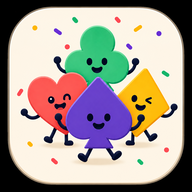
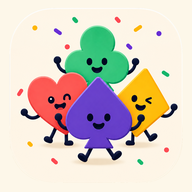
Add files via upload

Changed region(s): [[0.0, 0.0, 1.0, 1.0]]

diff --git a/README.md b/README.md
@@ -1,9 +1,13 @@
-# BooScore! v3.1.2 — aggiornamento icona app
+# BooScore! v3.1.2 — nuova icona
 
-Questa versione aggiorna l'icona della PWA con la nuova grafica approvata delle 4 mascotte.
+Questo aggiornamento sostituisce esclusivamente l'icona PWA con la nuova versione approvata:
+- sfondo beige chiaro pieno;
+- quattro mascotte dei semi;
+- coriandoli colorati;
+- nessun bordo/sfondo nero nell'immagine sorgente.
 
-## File da caricare su GitHub
-Carica/sostituisci questi file nella root del repository:
+## File da sostituire nella root di GitHub
+Carica questi file tutti allo stesso livello di `index.html`:
 
 - `apple-touch-icon.png`
 - `icon-192.png`
@@ -12,13 +16,12 @@ Carica/sostituisci questi file nella root del repository:
 - `icon-source-1024.png`
 - `sw.js`
 
-## Importante per vedere la nuova icona su iPhone
-Se l'app è già stata aggiunta alla Home, iOS può continuare a mostrare l'icona precedente dalla cache.
+Non sono necessarie cartelle e non serve modificare gli altri file della PWA.
 
-Procedura consigliata:
-1. aggiorna i file su GitHub;
-2. apri il sito aggiornato in Safari;
-3. se l'icona in Home non cambia subito, rimuovi BooScore! dalla Home;
-4. aggiungi di nuovo l'app alla Home.
+## iPhone: visualizzare la nuova icona
+L'icona Home può rimanere memorizzata da iOS anche dopo il deploy. Dopo aver aggiornato GitHub:
+1. apri BooScore! in Safari una volta;
+2. se l'icona Home non cambia, elimina solo il collegamento/app dalla schermata Home;
+3. aggiungi nuovamente BooScore! tramite **Condividi → Aggiungi alla schermata Home**.
 
-Non è necessario modificare altri file della PWA per questo aggiornamento.
+La cache del service worker è aggiornata a `booscore-v3.1.2`.
